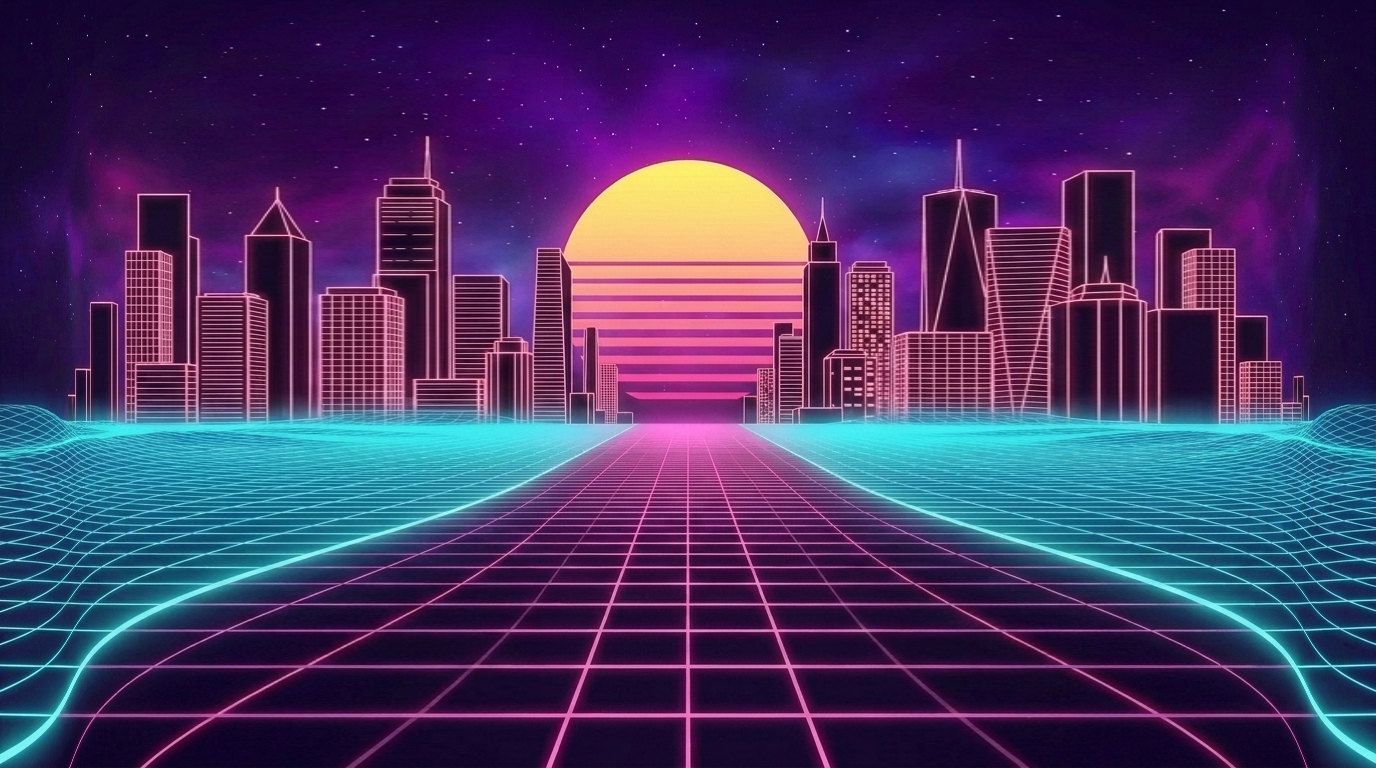
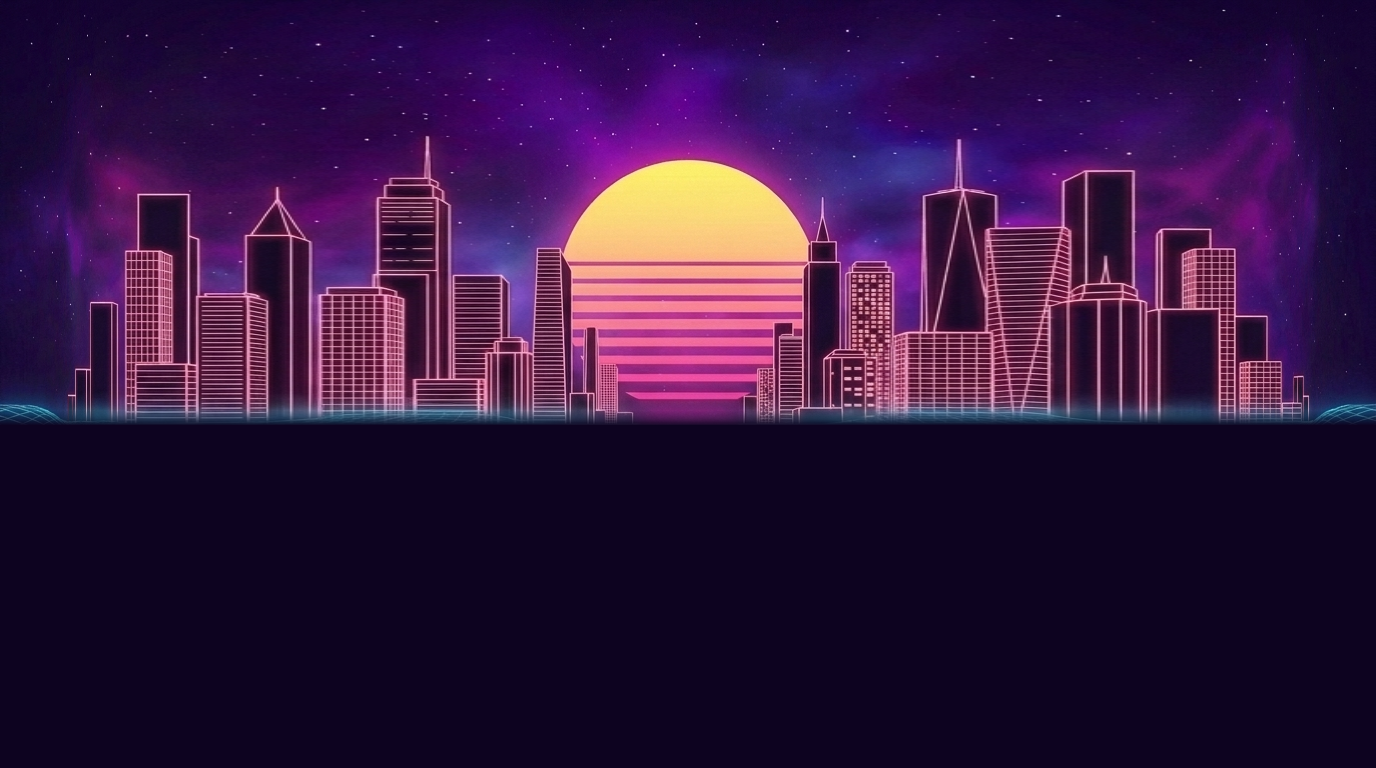
Arcade: erase the painted road from the backdrop — no more double road
The arcade canvas paints its own neon floor from the game's horizon down, so
nothing in the art below the horizon is ever meant to be seen. But the art's
horizon and the game's can't be pixel-exact on every screen, and the moment the art
sits even slightly low its painted road and grid peek out above the real floor —
two roads running to the same vanishing point, which is what shows on phones.

Deleting them from the art removes the failure mode instead of chasing alignment:
below the horizon there is simply nothing left to show through. Faded over a short
band so the horizon glow at the skyline's base survives and there's no hard cut.
Verified: 0 bright pixels remain below the horizon.

diff --git a/index.html b/index.html
@@ -4,7 +4,7 @@
 <meta charset="UTF-8">
 <meta http-equiv="Cache-Control" content="no-cache, must-revalidate">
 <script>/* auto-update: if a newer build is live, reload once (beats the ~10min GitHub Pages HTML cache) */
-window.__B="1783906938";(function(){try{fetch("build.txt?_="+Date.now(),{cache:"no-store"}).then(function(r){return r.ok?r.text():null;}).then(function(v){if(!v)return;v=(""+v).trim();if(v&&v!==window.__B&&!sessionStorage.getItem("nb"+v)){sessionStorage.setItem("nb"+v,"1");location.replace(location.pathname.replace(/\/$/,"/")+"?b="+v);}}).catch(function(){});}catch(e){}})();</script>
+window.__B="1783907430";(function(){try{fetch("build.txt?_="+Date.now(),{cache:"no-store"}).then(function(r){return r.ok?r.text():null;}).then(function(v){if(!v)return;v=(""+v).trim();if(v&&v!==window.__B&&!sessionStorage.getItem("nb"+v)){sessionStorage.setItem("nb"+v,"1");location.replace(location.pathname.replace(/\/$/,"/")+"?b="+v);}}).catch(function(){});}catch(e){}})();</script>
 <meta name="viewport" content="width=device-width, initial-scale=1.0, maximum-scale=1.0, user-scalable=no, viewport-fit=cover">
 <meta name="apple-mobile-web-app-capable" content="yes">
 <meta name="apple-mobile-web-app-status-bar-style" content="black-translucent">

diff --git a/tools/make_arcade_bg.py b/tools/make_arcade_bg.py
@@ -35,6 +35,11 @@ JOBS = [
     ('assets/menu_bg_portrait_back2.png', 'assets/menu_bg_portrait_arcade.png', 0.500, 0.084, 0.55),
 ]
 
+# Horizon of the landscape art (top of its painted grid), as a fraction of image height. Everything below
+# this is erased — see the note in build(). Same value the CSS uses to place the backdrop.
+HORIZON_F = 0.535
+FLOOR_RGB = (13, 3, 32)      # the arcade floor's own near-black violet, so the join is invisible
+
 
 def build(src_path, dst_path, cx_frac, d_frac, squeeze):
     from math import sin, pi
@@ -93,6 +98,26 @@ def build(src_path, dst_path, cx_frac, d_frac, squeeze):
                 int(a[1] + (b[1] - a[1]) * f),
                 int(a[2] + (b[2] - a[2]) * f),
                 int(a[3] + (b[3] - a[3]) * f),
+            )
+    # ---- ERASE THE PAINTED ROAD BELOW THE HORIZON ----
+    # The arcade canvas paints its OWN neon floor from the game's horizon down, so nothing in the art below
+    # the horizon is ever supposed to be seen. But the art's horizon and the game's can never be pixel-exact
+    # on every screen, and the moment the art sits even slightly low, its painted road and grid peek out
+    # above the real floor — you get TWO roads running to the same vanishing point.
+    # Deleting them from the art removes the failure mode entirely, instead of chasing alignment: below the
+    # horizon there is simply nothing left to show through. Fade over a short band so the horizon glow (which
+    # sells the skyline's base) survives and there's no hard cut.
+    hz = int(HORIZON_F * H)
+    FADE = max(6, int(H * 0.02))
+    for y in range(hz, H):
+        t = min(1.0, (y - hz) / FADE)              # 0 at the horizon -> 1 just below it
+        for x in range(W):
+            p = dst[x, y]
+            dst[x, y] = (
+                int(p[0] + (FLOOR_RGB[0] - p[0]) * t),
+                int(p[1] + (FLOOR_RGB[1] - p[1]) * t),
+                int(p[2] + (FLOOR_RGB[2] - p[2]) * t),
+                p[3],
             )
     out.save(dst_path)
     peak = max(abs(fwd[x] - x) for x in range(W))